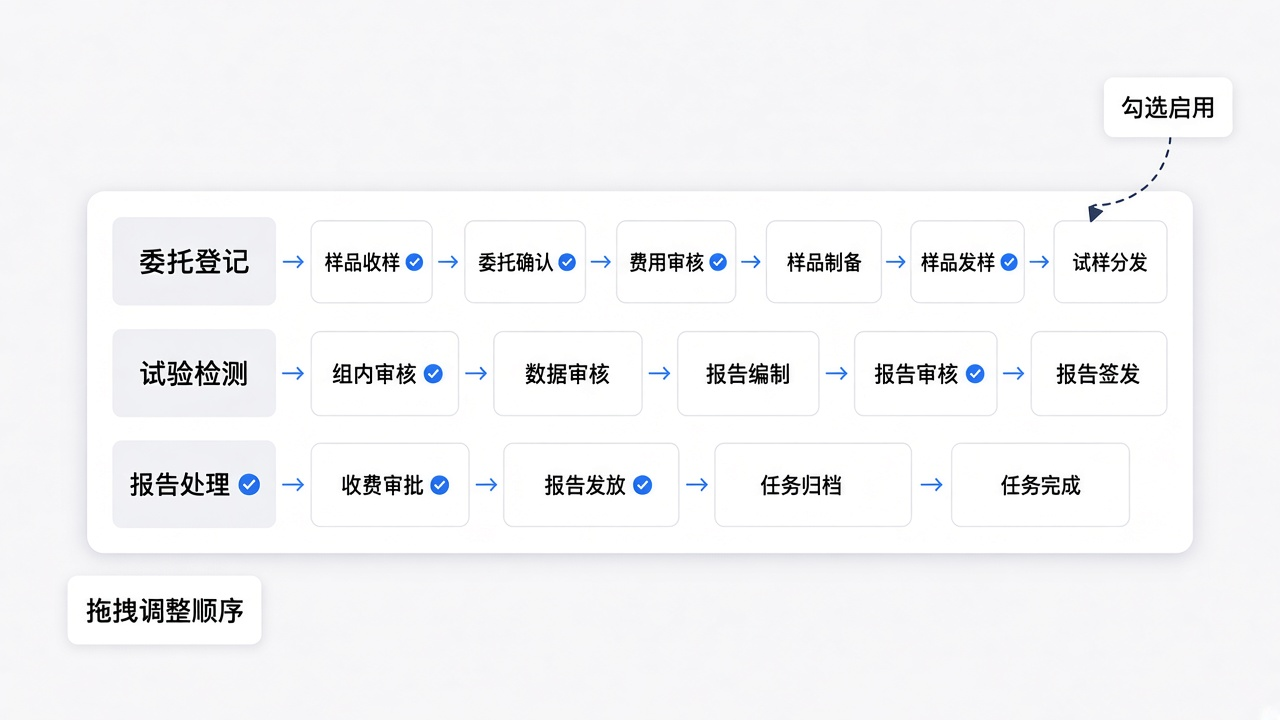
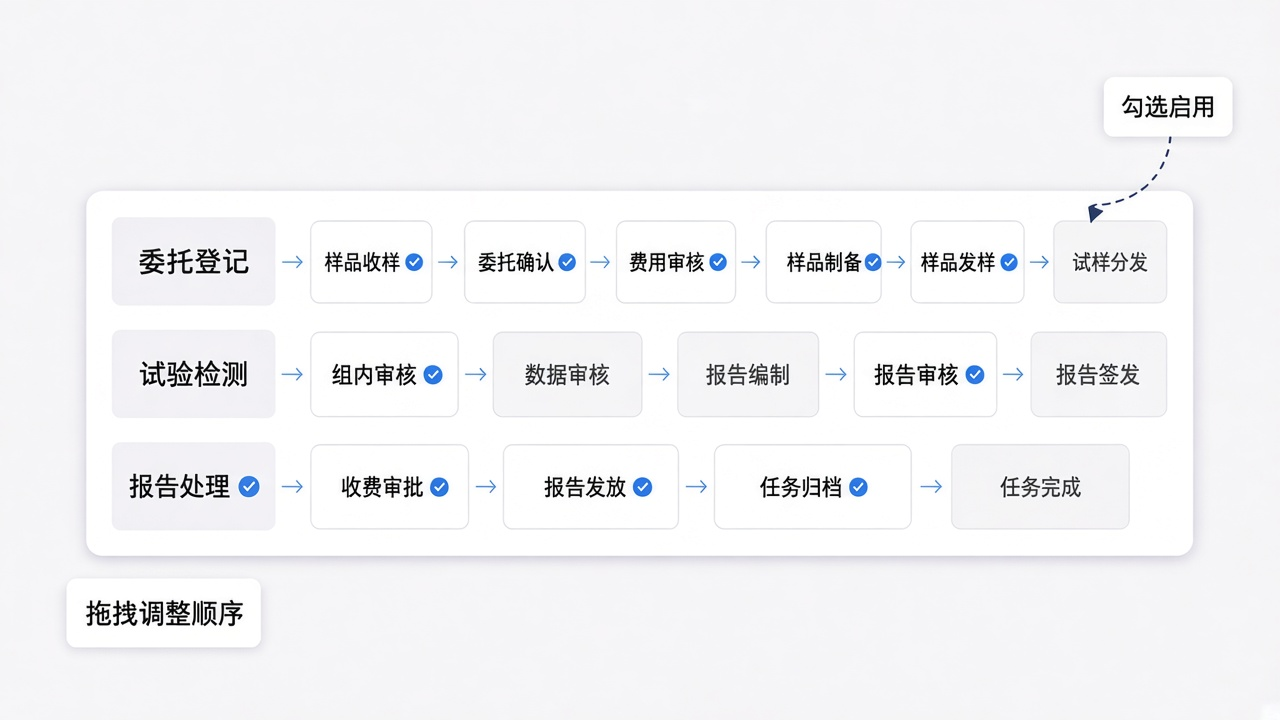
feat: 首页放 Test OS 底座，产品价值改为五点
首页增加 Test OS 应用总览。产品价值按流程、效率、数据、客户和轻量易用重写。流程定制改为个性化配置说明，样品制备和任务归档打勾，试样分发、数据审核、报告编制、报告签发和任务完成置灰。

diff --git a/shucan-lims-brochure.html b/shucan-lims-brochure.html
@@ -124,7 +124,20 @@
     .wrap { width: min(1120px, calc(100% - 40px)); margin: 0 auto; }
     section[id] { scroll-margin-top: 84px; }
 
-    .hero { padding: 48px 0 8px; }
+    .hero {
+      display: flex;
+      flex-direction: column;
+      justify-content: center;
+      gap: 22px;
+    }
+    .hero-shot { margin: 0; }
+    .hero-shot img { width: 100%; display: block; border-radius: 16px; border: 1px solid var(--line); box-shadow: var(--shadow); background: #f4f7fc; }
+    .value-list { display: grid; gap: 12px; }
+    .value-item { display: grid; grid-template-columns: minmax(320px, 42%) 1fr; gap: 18px; align-items: start; }
+    .value-item h3 { margin: 4px 0 0; font-size: 20px; }
+    .value-item .n { color: var(--brand); font-weight: 800; margin-right: 6px; }
+    .value-item ol { margin: 0; padding-left: 1.2em; color: var(--soft); }
+    .value-item li + li { margin-top: 4px; }
     .eyebrow {
       display: inline-flex;
       align-items: center;
@@ -570,6 +583,7 @@
       .compare, .check8, .deploy-grid, .value-grid { grid-template-columns: 1fr; display: grid; }
       .feat.flip .copy { order: 0; }
       .kpis { grid-template-columns: 1fr 1fr; }
+      .value-item { grid-template-columns: 1fr; }
       .top-actions { flex: 1 1 100%; min-width: 0; }
       .nav { flex: 1; flex-wrap: nowrap; justify-content: flex-start; overflow-x: auto; min-width: 0; }
       .nav a { flex: none; }
@@ -622,6 +636,9 @@
             <li>全流程可追溯</li>
           </ul>
         </div>
+        <figure class="hero-shot">
+          <img src="assets/brochure/00-testos.jpg" alt="Test OS 底座应用总览：实验室管理系统、数据采集系统和其他应用从同一入口进入" />
+        </figure>
       </section>
 
       <section class="block" id="pain">
@@ -891,11 +908,7 @@
           <div class="copy">
             <span class="pill">功能 08 · 流程定制</span>
             <h3>流程按自己的实验室来改</h3>
-            <p>灰色卡片是固定环节，白色卡片可以配置。拖拽调整顺序，勾选启用，取消勾选就停用。收样、审核、报告这些环节，按实验室实际怎么干活来排。</p>
-            <ul>
-              <li>委托登记、试验检测、报告处理三段，都可以按自己的实验室增删环节，不必套一套用不上的流程。</li>
-              <li>改完保存，后续任务按这套流程走。</li>
-            </ul>
+            <p>管理员可根据实际业务场景，自由取消不需要的环节，并调整流程顺序，实现真正的个性化流程管理，以达到去除冗余环节、实现效率提升的目的。</p>
           </div>
           <figure>
             <img src="assets/brochure/09-flow.jpg" alt="流程配置示意：灰色为固定环节，白色为可配置环节，可拖拽排序并勾选启用" />
@@ -1096,29 +1109,47 @@
       <section class="block" id="value">
         <div class="block-h">
           <p class="section-bar">05 · 产品价值</p>
-          <h2>系统跑起来之后，实验室得到什么</h2>
-          <p class="sub">四件事对应前面的模块：流程和记录有统一标准，过程看得见，数据留得住，出了问题能顺着任务改回去。</p>
         </div>
-        <div class="value-grid">
-          <article class="card value-card">
-            <div class="n">01</div>
-            <h3>管理规范化</h3>
-            <p>统一流程与记录标准。委托、样品、试验、记录和报告按同一套模版和标准库往下走。</p>
+        <div class="value-list">
+          <article class="card value-item">
+            <h3><span class="n">01</span> 流程规范化，降低人为差错</h3>
+            <ol>
+              <li>所有业务流程线上固化，杜绝口头交接和纸质遗漏。</li>
+              <li>关键节点需审核通过方可流转，确保责任可追溯。</li>
+              <li>电子签名与日志记录，满足 CNAS、CMA 等资质评审要求。</li>
+            </ol>
           </article>
-          <article class="card value-card">
-            <div class="n">02</div>
-            <h3>过程可视化</h3>
-            <p>进度、异常和负荷实时可见。任务做到哪、哪一项不合格、哪台设备临近校准，不用逐条翻。</p>
+          <article class="card value-item">
+            <h3><span class="n">02</span> 效率提升 30% 以上，缩短报告周期</h3>
+            <ol>
+              <li>自动化生成委托单、收费单、原始记录和报告模版。</li>
+              <li>任务自动推送至责任人，减少沟通成本。</li>
+              <li>数据直传避免二次录入，提升检测效率。</li>
+            </ol>
           </article>
-          <article class="card value-card">
-            <div class="n">03</div>
-            <h3>数据资产化</h3>
-            <p>积累检测数据，支撑分析决策。采集结果、判定和报告留在系统里，可以按样品、项目和客户回看。</p>
+          <article class="card value-item">
+            <h3><span class="n">03</span> 数据资产化，支撑科学决策</h3>
+            <ol>
+              <li>检测数据、客户信息和合同记录集中存储，形成实验室数据资产。</li>
+              <li>通过驾驶舱实时监控业务健康度，及时发现瓶颈。</li>
+              <li>历史数据可追溯，便于客户查询与内部复盘。</li>
+            </ol>
           </article>
-          <article class="card value-card">
-            <div class="n">04</div>
-            <h3>质量持续改进</h3>
-            <p>追溯问题链路，驱动流程优化。按任务回放每个环节，再更新标准库或模版，后续任务按新规则执行。</p>
+          <article class="card value-item">
+            <h3><span class="n">04</span> 客户体验升级，增强信任感</h3>
+            <ol>
+              <li>客户可通过链接完成委托单签署，流程透明。</li>
+              <li>报告状态实时可查，提升服务响应速度。</li>
+              <li>标准化报告格式与快速交付，提升专业形象。</li>
+            </ol>
+          </article>
+          <article class="card value-item">
+            <h3><span class="n">05</span> 轻量易用，适合中小型实验室</h3>
+            <ol>
+              <li>界面简洁，操作逻辑清晰，无需专业 IT 人员维护。</li>
+              <li>权限分级管理，保障数据安全。</li>
+              <li>支持快速部署、灵活扩展，投入成本低，见效快。</li>
+            </ol>
           </article>
         </div>
       </section>
